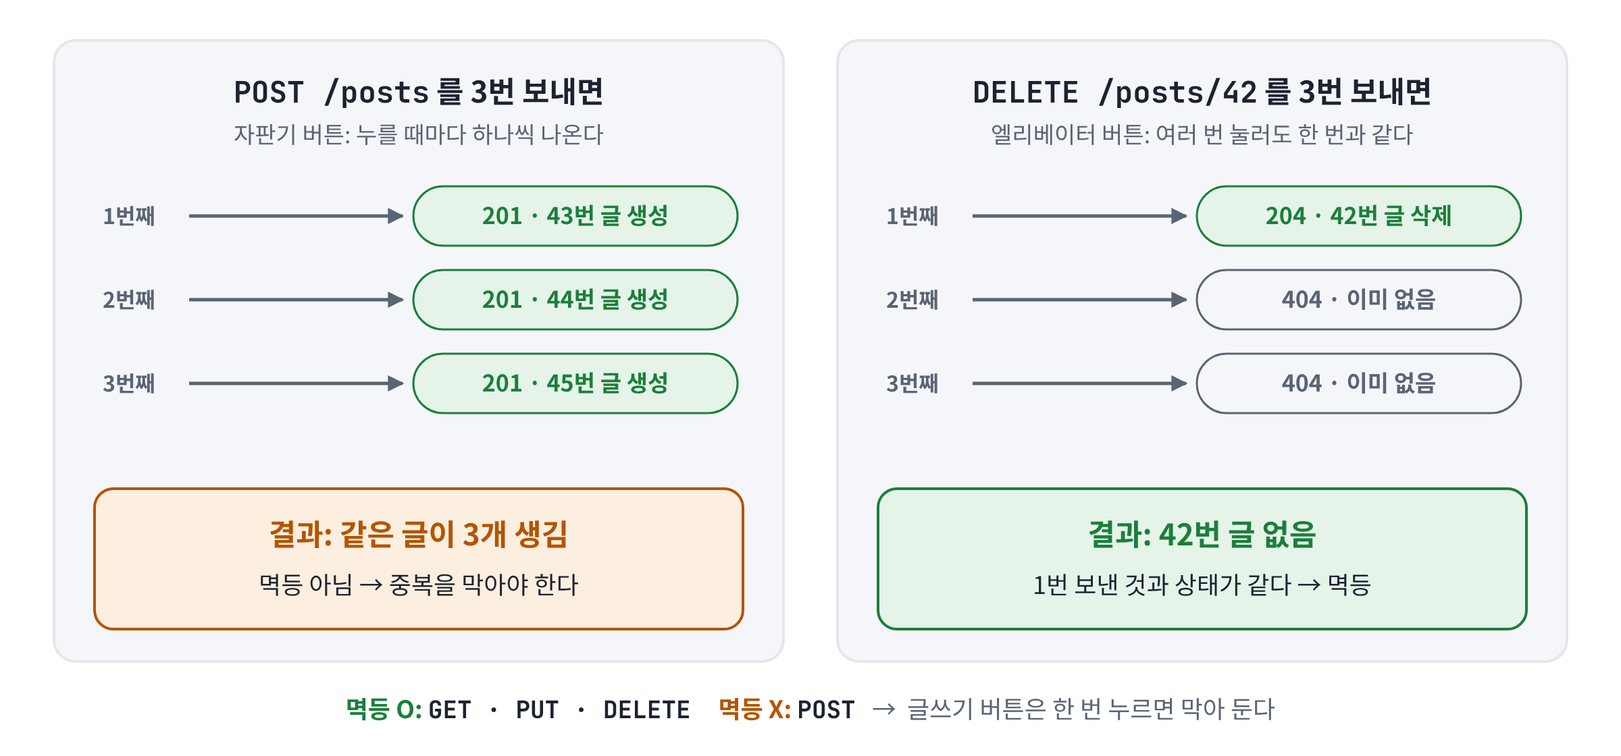
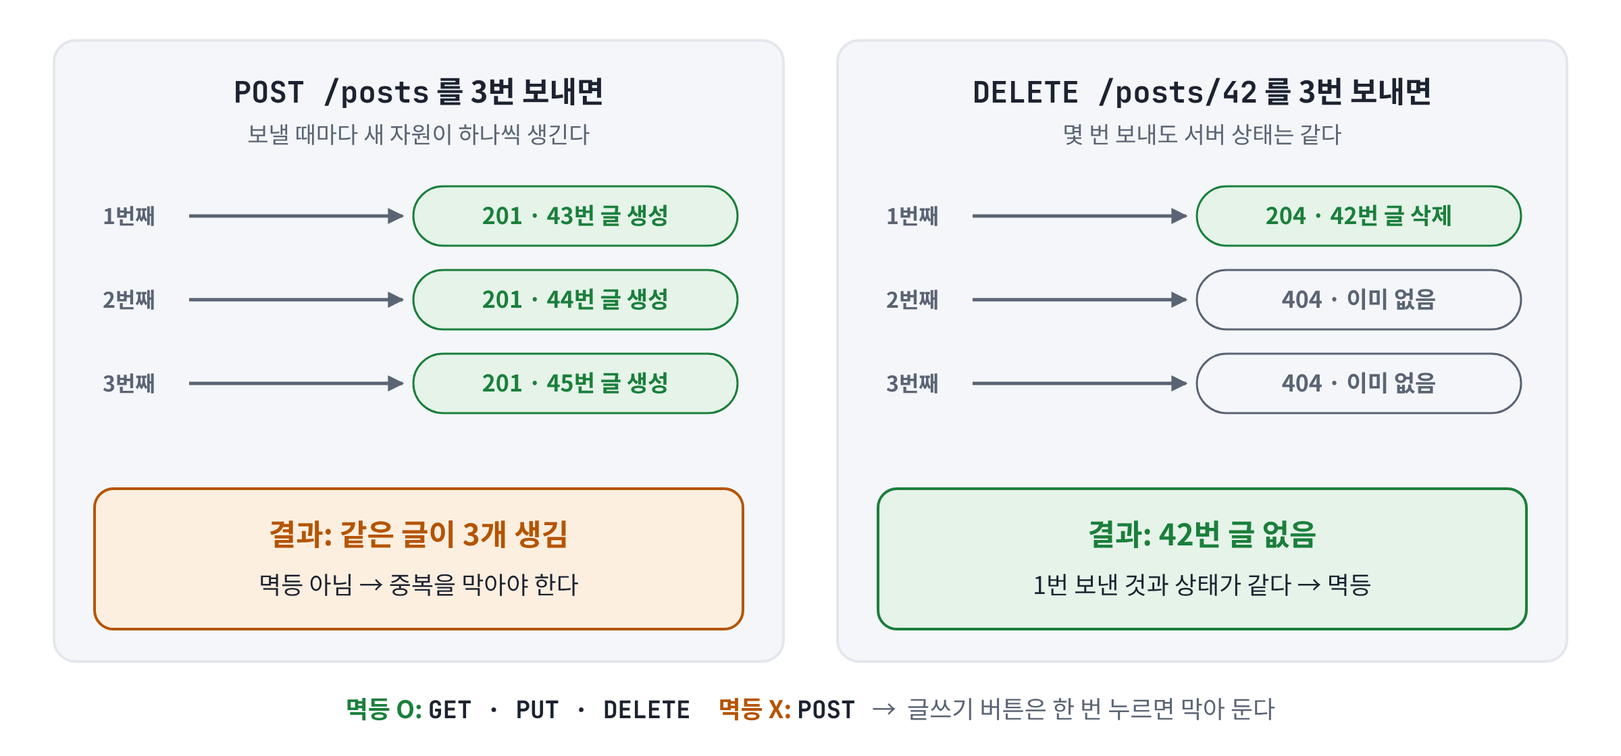
발표 그림과 설명에서 비유를 빼고 기술 용어로 정리
식당·자판기·출입증 같은 비유 문구를 그림과 README 대사에서 지우고
인증/인가, 서버 상태, DTO 검증처럼 실제 동작으로 설명한다.

Claude-Session: https://claude.ai/code/session_01CZVM9D7xaiJyCCw2JrofgF

Changed region(s): [[0.5938, 0.1562, 0.875, 0.1875], [0.125, 0.1562, 0.375, 0.1875]]

diff --git a/발표/그림/만들기/그림-생성.py b/발표/그림/만들기/그림-생성.py
@@ -101,23 +101,23 @@ f = fig("01-클라이언트와-서버", "클라이언트와 서버", 1200, 530,
 f.rect(40, 150, 220, 200, "blue", "blueBg")
 f.text(150, 222, "클라이언트", 28, 700, "blue")
 f.text(150, 258, "브라우저 · 앱", 19, 400, "muted")
-f.text(150, 305, "= 손님", 21, 500)
+f.text(150, 305, "요청을 보낸다", 19, 500)
 f.rect(520, 150, 240, 200, "teal", "tealBg")
 f.text(640, 222, "서버", 28, 700, "teal")
 f.text(640, 258, "Spring Boot", 19, 400, "muted")
-f.text(640, 305, "= 주방", 21, 500)
+f.text(640, 305, "요청을 처리한다", 19, 500)
 f.add(f'<rect x="508" y="168" width="14" height="164" rx="5" fill="{C["teal"]}"/>')
-f.text(515, 132, "API (창구)", 18, 700, "teal")
+f.text(515, 132, "API", 18, 700, "teal")
 f.rect(940, 150, 220, 200, "violet", "violetBg")
 f.text(1050, 222, "데이터베이스", 26, 700, "violet")
 f.text(1050, 258, "글 · 댓글 · 회원", 19, 400, "muted")
-f.text(1050, 305, "= 식재료 창고", 21, 500)
+f.text(1050, 305, "데이터를 저장한다", 19, 500)
 f.path([(262, 215), (504, 215)], "blue")
-f.text(383, 198, "① 요청 (주문서)", 18, 600, "blue")
+f.text(383, 198, "① 요청", 18, 600, "blue")
 f.path([(506, 290), (264, 290)], "teal")
-f.text(385, 322, "④ 응답 (음식)", 18, 600, "teal")
+f.text(385, 322, "④ 응답", 18, 600, "teal")
 f.path([(762, 215), (936, 215)], "violet")
-f.text(850, 198, "② 꺼내기 · 저장", 17, 600, "violet")
+f.text(850, 198, "② 조회 · 저장", 17, 600, "violet")
 f.path([(938, 290), (764, 290)], "violet")
 f.text(850, 322, "③ 결과", 17, 600, "violet")
 f.path([(150, 352), (150, 440), (1050, 440), (1050, 352)], "red", arrow=False, dash="8 7", sw=2)
@@ -277,10 +277,10 @@ for i, (m, req, body, n1, n2, nc) in enumerate(M):
 f = fig("06-멱등성", "멱등성", 1200, 560,
         "POST를 3번 보내면 글이 3개 생기지만, DELETE를 3번 보내도 42번 글이 없는 상태는 1번 보낸 것과 같다.")
 for (px, head_m, head_t, sub, results, sc, s1, s2) in [
-    (40, "POST /posts", " 를 3번 보내면", "자판기 버튼: 누를 때마다 하나씩 나온다",
+    (40, "POST /posts", " 를 3번 보내면", "보낼 때마다 새 자원이 하나씩 생긴다",
      [("201 · 43번 글 생성", "green", "greenBg"), ("201 · 44번 글 생성", "green", "greenBg"), ("201 · 45번 글 생성", "green", "greenBg")],
      "orange", "결과: 같은 글이 3개 생김", "멱등 아님 → 중복을 막아야 한다"),
-    (620, "DELETE /posts/42", " 를 3번 보내면", "엘리베이터 버튼: 여러 번 눌러도 한 번과 같다",
+    (620, "DELETE /posts/42", " 를 3번 보내면", "몇 번 보내도 서버 상태는 같다",
      [("204 · 42번 글 삭제", "green", "greenBg"), ("404 · 이미 없음", "muted", "soft"), ("404 · 이미 없음", "muted", "soft")],
      "green", "결과: 42번 글 없음", "1번 보낸 것과 상태가 같다 → 멱등"),
 ]:
@@ -311,8 +311,8 @@ f.rect(280, 215, 190, 110, "teal", "tealBg")
 f.text(375, 262, "서버", 24, 700, "teal")
 f.text(375, 292, "처리 결과는?", 16, 400, "muted")
 f.path([(212, 270), (276, 270)], "blue")
-f.text(125, 362, "상자를 열기 전에", 15, 400, "muted")
-f.text(125, 384, "스티커로 결과를 안다", 15, 400, "muted")
+f.text(125, 362, "바디를 읽기 전에", 15, 400, "muted")
+f.text(125, 384, "상태 코드로 결과를 안다", 15, 400, "muted")
 f.path([(472, 270), (535, 270)], "muted", arrow=False)
 for (y, col, code, t1, codes, t3) in [
     (40, "green", "2xx", "성공", "200 OK · 201 Created · 204 No Content", "할 일 없음, 결과를 쓰면 된다"),
@@ -333,13 +333,13 @@ f.rich(108, 570, [("하지 말 것: 실패인데 ", "ink", 600), ('200 OK + { "s
 
 # ---------------------------------------------------------------- 08 401과 403
 f = fig("08-401과-403", "401과 403", 1200, 420,
-        "요청은 출입증 확인(없으면 401)과 권한 확인(없으면 403)을 모두 통과해야 처리된다.", oy=50)
+        "요청은 인증(실패하면 401)과 인가(실패하면 403)를 모두 통과해야 처리된다.", oy=50)
 f.rect(30, 80, 180, 110, "blue", "blueBg")
 f.text(120, 122, "클라이언트", 21, 700, "blue")
 f.text(120, 152, "DELETE /posts/42", 15, 600, "ink", mono=True)
 f.text(120, 176, "(글 삭제 요청)", 15, 400, "muted")
-for (x, w, t1, t2, t3) in [(280, 240, "① 출입증 확인", "로그인했나?", "(토큰이 있고 유효한가)"),
-                           (590, 250, "② 권한 확인", "이 글을 지울 수 있나?", "(글쓴이 본인 · 관리자)")]:
+for (x, w, t1, t2, t3) in [(280, 240, "① 인증", "로그인했나?", "(Authentication)"),
+                           (590, 250, "② 인가", "이 글을 지울 권한이 있나?", "(Authorization)")]:
     f.rect(x, 80, w, 110, "ink", "white", sw=2)
     f.text(x + w / 2, 120, t1, 20, 700)
     f.text(x + w / 2, 150, t2, 17, 500)
@@ -352,8 +352,8 @@ f.path([(522, 135), (586, 135)], "green")
 f.text(554, 122, "예", 16, 700, "green")
 f.path([(842, 135), (906, 135)], "green")
 f.text(874, 122, "예", 16, 700, "green")
-for (cx, code, l1, l2) in [(400, "401 Unauthorized", "누구세요?", "로그인하고 오세요"),
-                           (715, "403 Forbidden", "누군지는 알지만", "이 글은 못 지워요")]:
+for (cx, code, l1, l2) in [(400, "401 Unauthorized", "인증 실패", "토큰이 없거나 만료됨"),
+                           (715, "403 Forbidden", "인가 실패", "글쓴이·관리자가 아님")]:
     f.path([(cx, 192), (cx, 266)], "orange")
     f.text(cx + 12, 236, "아니오", 15, 700, "orange", "start")
     f.rect(cx - 115, 270, 230, 120, "orange", "orangeBg")
@@ -361,9 +361,9 @@ for (cx, code, l1, l2) in [(400, "401 Unauthorized", "누구세요?", "로그인
     f.text(cx, 342, l1, 19, 700)
     f.text(cx, 370, l2, 16, 400, "muted")
 f.rect(910, 270, 260, 120, "faint", "soft")
-f.text(1040, 304, "출입증 비유", 17, 700, "muted")
-f.text(1040, 336, "401: 출입증을 안 찍음", 16, 500)
-f.text(1040, 364, "403: 찍었지만 이 층은 못 감", 16, 500)
+f.text(1040, 304, "구분", 17, 700, "muted")
+f.text(1040, 336, "401: 누구인지 모름", 16, 500)
+f.text(1040, 364, "403: 누구인지 알지만 권한 없음", 16, 500)
 
 # ---------------------------------------------------------------- 09 공통 에러 형식
 f = fig("09-공통-에러-형식", "공통 에러 형식", 1200, 570,
@@ -416,7 +416,7 @@ f = fig("10-전역-예외-처리와-입력-검증", "전역 예외 처리와 입
 f.rect(30, 110, 180, 100, "blue", "blueBg")
 f.text(120, 167, "클라이언트", 21, 700, "blue")
 for (x, w, t1, t2, t3, col, bg) in [
-    (270, 200, "입력 검증", "@Valid", "공항 검색대", "orange", "orangeBg"),
+    (270, 200, "입력 검증", "@Valid", "요청 DTO 형식 검사", "orange", "orangeBg"),
     (520, 190, "컨트롤러", "요청 받고 넘기기", None, "line", "white"),
     (760, 190, "서비스", "업무 규칙 검사", None, "line", "white"),
     (1000, 200, "DB", "읽기 · 쓰기", None, "violet", "violetBg"),
@@ -447,7 +447,7 @@ f.path([(1100, 212), (1100, 376)], "red")
 f.text(1112, 302, "예상 못 한 오류", 15, 700, "red", "start")
 f.rect(270, 380, 930, 180, "teal", "tealBg")
 f.rich(735, 418, [("전역 예외 처리기 · ", "teal", 700), ("@RestControllerAdvice", "teal", 700, True)], 21, "middle")
-f.text(735, 446, "원무과 창구: 어디서 난 문제든 여기서 같은 양식으로 답한다", 16, 400, "ink")
+f.text(735, 446, "어디서 던진 예외든 여기서 받아 같은 형식으로 응답한다", 16, 400, "ink")
 for k, (t1, t2, col) in enumerate([("검증 실패", "400", "orange"), ("글 없음", "404", "orange"),
                                     ("중복 제목", "409", "orange"), ("그 밖의 오류", "500 + 로그", "red")]):
     x = 290 + k * 230
@@ -577,7 +577,7 @@ f.rich(600, 414, [("좋은 문서에 꼭  ", "ink", 700),
 f = fig("14-한-장-요약", "한 장 요약: 요청 하나의 여정", 1280, 390,
         "요청 하나는 URL, 메서드, 입력 검증, 전역 예외 처리, 상태 코드와 공통 응답 순으로 지나가고, API 문서가 이 약속을 미리 알려 준다.")
 f.rect(60, 30, 1160, 56, "green", "greenBg", rx=12)
-f.rich(640, 65, [("API 문서 (메뉴판)  ", "green", 700), ("아래 약속을 모두 미리 적어 둔다", "ink", 500)], 19, "middle")
+f.rich(640, 65, [("API 문서  ", "green", 700), ("아래 규칙을 모두 미리 적어 둔다", "ink", 500)], 19, "middle")
 steps = [
     ("/posts/42", "teal", 18, "무엇 = URL", "명사 · 복수형"),
     ("DELETE", "blue", 18, "어떻게 = 메서드", "조회·생성·수정·삭제"),

diff --git a/발표/그림/README.md b/발표/그림/README.md
@@ -11,7 +11,7 @@
 
 ![클라이언트는 요청을 보내고, 서버가 DB를 다룬 뒤 응답한다. 클라이언트는 DB를 직접 열지 않는다.](01-클라이언트와-서버.png)
 
-> API는 프로그램끼리 주고받는 창구예요. 손님(클라이언트)은 주방(서버)에 주문서(요청)를 내고, 주방은 창고(DB)에서 재료를 꺼내 음식(응답)을 내줍니다. 손님이 창고에 직접 들어가지 않듯이, 앱도 DB를 직접 열지 않고 항상 API를 거칩니다.
+> 클라이언트는 브라우저나 앱처럼 요청을 보내는 쪽이고, 서버는 그 요청을 처리하는 쪽입니다. 서버는 필요하면 DB에서 데이터를 조회하거나 저장한 뒤 결과를 응답으로 돌려줍니다. 클라이언트는 DB에 직접 접근하지 않고, 서버가 열어 둔 API를 통해서만 데이터를 주고받습니다. 이 API를 어떤 규칙으로 설계할지가 오늘 주제입니다.
 
 파일: [`01-클라이언트와-서버.png`](01-클라이언트와-서버.png) · [`01-클라이언트와-서버.svg`](01-클라이언트와-서버.svg)
 
@@ -19,7 +19,7 @@
 
 ![요청은 메서드와 주소, 헤더, 바디로 되어 있고, 응답은 상태 코드, 헤더, 바디로 되어 있다.](02-요청과-응답의-구조.png)
 
-> 요청은 세 부분이에요. 무엇을 어디에 할지(메서드와 주소), 부가 정보(헤더), 내용물(바디). 응답에는 결과 번호(상태 코드)와 부가 정보, 내용물이 돌아옵니다. 글을 새로 만들면 201과 함께 새 글의 주소(Location)를 알려 줘요.
+> HTTP 요청은 메서드와 주소, 헤더, 바디로 구성됩니다. 메서드와 주소는 어떤 자원에 무엇을 할지, 헤더는 데이터 형식이나 인증 토큰 같은 부가 정보, 바디는 실제로 보내는 데이터입니다. 응답도 같은 구조로 상태 코드, 헤더, 바디가 돌아옵니다. 글을 생성하면 201과 함께 Location 헤더로 새 글의 주소를 알려 줍니다.
 
 파일: [`02-요청과-응답의-구조.png`](02-요청과-응답의-구조.png) · [`02-요청과-응답의-구조.svg`](02-요청과-응답의-구조.svg)
 
@@ -27,7 +27,7 @@
 
 ![DELETE /api/v1/posts/42 → 204 No Content 는 어떻게(메서드), 무엇(URL), 결과(상태 코드)로 나뉘어 읽힌다.](03-REST-세-줄-약속.png)
 
-> REST는 이 세 칸을 채우는 약속이에요. 무엇은 URL로, 어떻게는 메서드로, 결과는 상태 코드로. 그래서 이 한 줄은 설명 없이도 '42번 글을 지웠고, 잘 끝났다'로 읽힙니다.
+> REST는 요청 한 줄을 세 부분으로 나눠 표현하는 규칙입니다. 대상 자원은 URL로, 수행할 행동은 HTTP 메서드로, 처리 결과는 상태 코드로 표현합니다. 그래서 이 한 줄은 별도 설명 없이 '42번 글을 삭제했고, 성공했다'로 읽힙니다.
 
 파일: [`03-REST-세-줄-약속.png`](03-REST-세-줄-약속.png) · [`03-REST-세-줄-약속.svg`](03-REST-세-줄-약속.svg)
 
@@ -35,7 +35,7 @@
 
 ![URL은 폴더 경로처럼 명사를 이어 붙여 자원을 가리키고, 누구인지는 경로에, 보여 주는 방식은 쿼리에 둔다.](04-자원-중심-URL.png)
 
-> URL은 폴더 경로처럼 읽혀요. /posts는 글 목록이고, 뒤에 /42를 붙이면 42번 글, /comments를 붙이면 그 글의 댓글이에요. URL에는 명사만 쓰고, 동사는 메서드가 대신 말해 줍니다. 누구인지는 경로에, 정렬이나 개수처럼 어떻게 보여 줄지는 물음표 뒤 쿼리에 붙여요.
+> URL은 자원의 위치를 나타내므로 명사로만 구성합니다. 컬렉션은 복수형 /posts, 그중 하나는 /posts/42, 하위 자원은 /posts/42/comments처럼 계층으로 표현합니다. 조회, 생성 같은 행동은 메서드가 표현하므로 URL에 동사를 넣지 않습니다. 특정 자원을 식별하는 값은 경로에, 정렬이나 개수처럼 표현 방식을 바꾸는 값은 쿼리 스트링에 둡니다.
 
 파일: [`04-자원-중심-URL.png`](04-자원-중심-URL.png) · [`04-자원-중심-URL.svg`](04-자원-중심-URL.svg)
 
@@ -43,7 +43,7 @@
 
 ![같은 42번 글에 메서드만 바꾸면 결과가 달라진다. PUT은 통째로 교체해 안 보낸 본문이 사라지고, PATCH는 보낸 제목만 고친다.](05-메서드별-결과.png)
 
-> 같은 42번 글에 메서드만 바꿔 보내면 결과가 이렇게 달라집니다. PUT과 PATCH를 보세요. 둘 다 제목만 보냈는데, PUT은 통째로 갈아 끼워서 안 보낸 본문이 사라질 수 있고, PATCH는 보낸 칸만 고쳐요. 그래서 수정 기능은 보통 PATCH를 씁니다.
+> 같은 42번 글에 메서드만 바꿔 보냈을 때 서버 상태가 어떻게 바뀌는지 보여 줍니다. GET은 조회만 하고, POST는 새 자원을 만들고, DELETE는 삭제합니다. PUT과 PATCH는 둘 다 수정이지만 차이가 있습니다. PUT은 자원 전체를 보낸 값으로 교체하므로 보내지 않은 본문이 비워질 수 있고, PATCH는 보낸 필드만 변경합니다. 그래서 일부 수정에는 PATCH를 씁니다.
 
 파일: [`05-메서드별-결과.png`](05-메서드별-결과.png) · [`05-메서드별-결과.svg`](05-메서드별-결과.svg)
 
@@ -51,7 +51,7 @@
 
 ![POST를 3번 보내면 글이 3개 생기지만, DELETE를 3번 보내도 42번 글이 없는 상태는 1번 보낸 것과 같다.](06-멱등성.png)
 
-> POST는 자판기 버튼이에요. 세 번 보내면 글이 세 개 생깁니다. DELETE는 엘리베이터 버튼이에요. 세 번 보내도 결과는 '42번 글 없음' 하나예요. 여러 번 해도 결과가 같은 성질을 멱등이라고 합니다. 그래서 글쓰기 버튼은 한 번 누르면 막아 둡니다.
+> 멱등성은 같은 요청을 여러 번 보내도 서버 상태가 한 번 보낸 것과 같은 성질입니다. POST를 세 번 보내면 글이 세 개 생기므로 멱등하지 않습니다. DELETE는 두 번째부터 404가 오지만 '42번 글이 없다'는 서버 상태는 같으므로 멱등합니다. 네트워크 오류로 재시도할 때 멱등한 요청은 안전하게 다시 보낼 수 있고, POST는 중복 생성을 막는 처리가 필요합니다.
 
 파일: [`06-멱등성.png`](06-멱등성.png) · [`06-멱등성.svg`](06-멱등성.svg)
 
@@ -59,15 +59,15 @@
 
 ![서버의 처리 결과는 2xx 성공, 4xx 요청한 쪽 잘못, 5xx 서버 잘못 세 갈래로 나뉘고, 실패를 200으로 주면 안 된다.](07-상태-코드-세-갈래.png)
 
-> 상태 코드는 택배 상자 겉의 스티커예요. 열어 보지 않아도 결과를 알 수 있죠. 첫 숫자만 보면 됩니다. 2는 성공, 4는 요청한 쪽이 고쳐야 하고, 5는 서버가 고쳐야 해요. 실패했는데 200을 주면 모니터링이나 재시도 도구가 전부 성공으로 착각합니다.
+> 상태 코드는 첫 자리로 결과의 종류를 나눕니다. 2xx는 성공, 4xx는 클라이언트 요청에 문제가 있어 요청을 고쳐야 하는 경우, 5xx는 서버 내부 문제입니다. 클라이언트는 바디를 파싱하기 전에 상태 코드만으로 결과를 판단할 수 있어야 합니다. 그래서 실패를 200과 success: false로 보내면 안 됩니다. 모니터링, 재시도, 캐시 같은 도구가 모두 성공으로 처리하기 때문입니다.
 
 파일: [`07-상태-코드-세-갈래.png`](07-상태-코드-세-갈래.png) · [`07-상태-코드-세-갈래.svg`](07-상태-코드-세-갈래.svg)
 
 ## 401과 403 (슬라이드 7)
 
-![요청은 출입증 확인(없으면 401)과 권한 확인(없으면 403)을 모두 통과해야 처리된다.](08-401과-403.png)
+![요청은 인증(실패하면 401)과 인가(실패하면 403)를 모두 통과해야 처리된다.](08-401과-403.png)
 
-> 401과 403은 회사 출입 게이트로 보면 쉬워요. 첫 번째 게이트에서 출입증이 없으면 401, '누구세요?'입니다. 출입증은 있지만 이 글을 지울 권한이 없으면 403, '누군지는 알지만 여긴 안 돼요'입니다. 두 게이트를 다 통과해야 삭제됩니다.
+> 401과 403은 실패한 단계가 다릅니다. 401은 인증 실패로, 토큰이 없거나 만료되어 서버가 요청한 사람이 누구인지 확인하지 못한 경우입니다. 403은 인가 실패로, 누구인지는 확인했지만 이 작업을 할 권한이 없는 경우입니다. 예를 들어 다른 사람의 글을 삭제하려 하면 403입니다.
 
 파일: [`08-401과-403.png`](08-401과-403.png) · [`08-401과-403.svg`](08-401과-403.svg)
 
@@ -75,7 +75,7 @@
 
 ![API마다 다른 에러 모양을 표준 형식 하나로 통일하면, 화면은 code 하나만 보고 처리할 수 있다.](09-공통-에러-형식.png)
 
-> API마다 에러 모양이 다르면 화면 개발자는 경우마다 따로 처리해야 해요. 심지어 실패인데 200을 주는 곳도 있죠. 그래서 모든 API가 같은 모양으로 에러를 보내게 맞춥니다. 형식은 인터넷 표준(RFC 9457)을 쓰고, 우리 팀 에러 코드(code)를 하나 더 붙여요. 화면은 문장이 아니라 이 code를 보고 판단합니다.
+> API마다 에러 응답 구조가 다르면 클라이언트는 API별로 에러 처리 코드를 따로 작성해야 합니다. 그래서 모든 API의 에러 응답을 하나의 형식으로 통일합니다. 형식은 RFC 9457 Problem Details 표준의 type, title, status, detail을 쓰고, 팀에서 정의한 에러 코드 code를 추가합니다. 메시지 문장은 바뀔 수 있으므로 클라이언트는 code 값으로 분기합니다. 스택 트레이스나 SQL 같은 내부 정보는 응답에 넣지 않습니다.
 
 파일: [`09-공통-에러-형식.png`](09-공통-에러-형식.png) · [`09-공통-에러-형식.svg`](09-공통-에러-형식.svg)
 
@@ -83,7 +83,7 @@
 
 ![요청은 입력 검증, 컨트롤러, 서비스, DB를 지나고, 어디서 난 에러든 전역 예외 처리기 한 곳에 모여 같은 양식으로 응답한다.](10-전역-예외-처리와-입력-검증.png)
 
-> 요청은 검색대(입력 검증)를 지나 컨트롤러, 서비스, DB로 갑니다. 어디서 문제가 생기든 에러는 모두 원무과 창구 한 곳(@RestControllerAdvice)으로 모이고, 여기서 같은 양식으로 답해요. 그래서 컨트롤러에는 try-catch가 필요 없습니다. 화면에서 이미 검사했어도 API는 화면 없이도 부를 수 있으니, 서버의 검색대는 절대 생략하지 않아요.
+> 요청은 입력 검증, 컨트롤러, 서비스, DB 순서로 처리됩니다. 요청 DTO의 형식 오류는 @Valid에서 걸러 400을 주고, 글이 없거나 제목이 중복되는 업무 규칙 위반은 서비스에서 예외를 던집니다. 이 예외들은 모두 @RestControllerAdvice 한 곳에서 받아 상태 코드와 공통 에러 형식으로 변환합니다. 그래서 컨트롤러마다 try-catch를 쓸 필요가 없습니다. 클라이언트에서 검증했더라도 API는 직접 호출될 수 있으므로 서버 검증은 생략하지 않습니다.
 
 파일: [`10-전역-예외-처리와-입력-검증.png`](10-전역-예외-처리와-입력-검증.png) · [`10-전역-예외-처리와-입력-검증.svg`](10-전역-예외-처리와-입력-검증.svg)
 
@@ -91,7 +91,7 @@
 
 ![목록 조건은 물음표 뒤 쿼리에 검색, 정렬, 페이징 순으로 이름=값을 &로 이어 붙인다.](11-검색-정렬-페이징-주소.png)
 
-> 목록 조건은 전부 물음표 뒤에 붙여요. 도서관에서 '여행 코너에서, 제주 관련, 최신순으로, 20권씩 주세요'라고 말하는 것과 같습니다. 검색, 정렬, 페이징이 각자 자리를 갖고 있고, 안 보내면 기본값을 씁니다.
+> 목록 조회의 조건은 모두 쿼리 스트링으로 전달합니다. 검색 조건은 topic, keyword, 정렬은 sort=필드,방향, 페이징은 page와 size로 표현합니다. 값을 보내지 않으면 서버가 정한 기본값, 예를 들어 최신순 20개를 적용합니다.
 
 파일: [`11-검색-정렬-페이징-주소.png`](11-검색-정렬-페이징-주소.png) · [`11-검색-정렬-페이징-주소.svg`](11-검색-정렬-페이징-주소.svg)
 
@@ -99,7 +99,7 @@
 
 ![오프셋은 앞의 글을 세며 건너뛰어 쪽 번호로 이동하고, 커서는 마지막으로 본 글 다음부터 바로 가져온다.](12-오프셋과-커서.png)
 
-> 글이 100만 개면 나눠서 줘야 해요. 오프셋은 쪽 번호로 찾아가서 게시판에 잘 맞지만, 앞의 글을 세면서 건너뛰기 때문에 뒤로 갈수록 느려집니다. 커서는 '마지막으로 본 글 다음부터'라서 데이터가 많아도 빠르고 무한 스크롤에 잘 맞아요. 어느 쪽이든 size 최댓값은 꼭 정해 둡니다.
+> 페이징 방식은 두 가지입니다. 오프셋은 page와 size로 앞의 데이터를 건너뛰고 가져오는 방식으로, 페이지 번호로 바로 이동할 수 있어 게시판에 맞습니다. 대신 뒤 페이지일수록 건너뛸 행이 많아져 느려지고, 그사이 새 글이 추가되면 결과가 겹치거나 빠질 수 있습니다. 커서는 마지막으로 받은 항목의 기준값 다음부터 가져오는 방식이라 데이터가 많아도 성능이 일정하고 무한 스크롤에 맞습니다. 어느 방식이든 size 최댓값, 기본 정렬, 정렬 가능한 필드는 서버에서 제한합니다.
 
 파일: [`12-오프셋과-커서.png`](12-오프셋과-커서.png) · [`12-오프셋과-커서.svg`](12-오프셋과-커서.svg)
 
@@ -107,7 +107,7 @@
 
 ![코드에서 springdoc이 OpenAPI 명세를 만들고 Swagger UI가 보여 주며, 정확도가 필요하면 테스트를 통과해야 생기는 REST Docs를 쓴다.](13-API-문서가-만들어지는-길.png)
 
-> 메뉴판 없는 식당에선 주문을 못 하죠. API 문서가 그 메뉴판이에요. springdoc을 쓰면 코드에서 OpenAPI 명세가 자동으로 만들어지고, Swagger UI가 그걸 화면으로 보여 줍니다. 정확도가 중요하면 테스트를 통과해야 문서가 생기는 Spring REST Docs를 써요.
+> API 문서는 OpenAPI 명세로 작성합니다. springdoc을 쓰면 컨트롤러와 DTO의 어노테이션을 읽어 명세가 자동으로 만들어지고, Swagger UI가 그 명세를 화면으로 보여 주며 직접 호출도 할 수 있습니다. 문서와 실제 동작이 어긋나지 않는 게 중요하다면, 테스트가 통과해야 문서가 생성되는 Spring REST Docs를 씁니다. 문서에는 메서드와 URL, 인증 방식, 요청·응답 예시, 에러 코드 표가 들어가야 합니다.
 
 파일: [`13-API-문서가-만들어지는-길.png`](13-API-문서가-만들어지는-길.png) · [`13-API-문서가-만들어지는-길.svg`](13-API-문서가-만들어지는-길.svg)
 
@@ -115,7 +115,7 @@
 
 ![요청 하나는 URL, 메서드, 입력 검증, 전역 예외 처리, 상태 코드와 공통 응답 순으로 지나가고, API 문서가 이 약속을 미리 알려 준다.](14-한-장-요약.png)
 
-> 오늘 내용을 요청 하나의 여정으로 정리하면 이렇습니다. 무엇은 URL로, 어떻게는 메서드로, 입력은 서버가 다시 검사하고, 문제는 한곳에서 처리하고, 결과는 상태 코드와 같은 모양의 응답으로 돌려줍니다. 이 약속을 미리 적어 둔 메뉴판이 API 문서예요.
+> 오늘 내용을 요청 하나의 처리 순서로 정리하면 이렇습니다. 자원은 URL로, 행동은 메서드로 표현하고, 입력은 서버에서 검증하고, 예외는 한곳에서 처리하고, 결과는 상태 코드와 공통 응답 형식으로 돌려줍니다. 목록은 쿼리로 나눠서 주고, 이 모든 규칙은 API 문서로 공개합니다.
 
 파일: [`14-한-장-요약.png`](14-한-장-요약.png) · [`14-한-장-요약.svg`](14-한-장-요약.svg)
 
